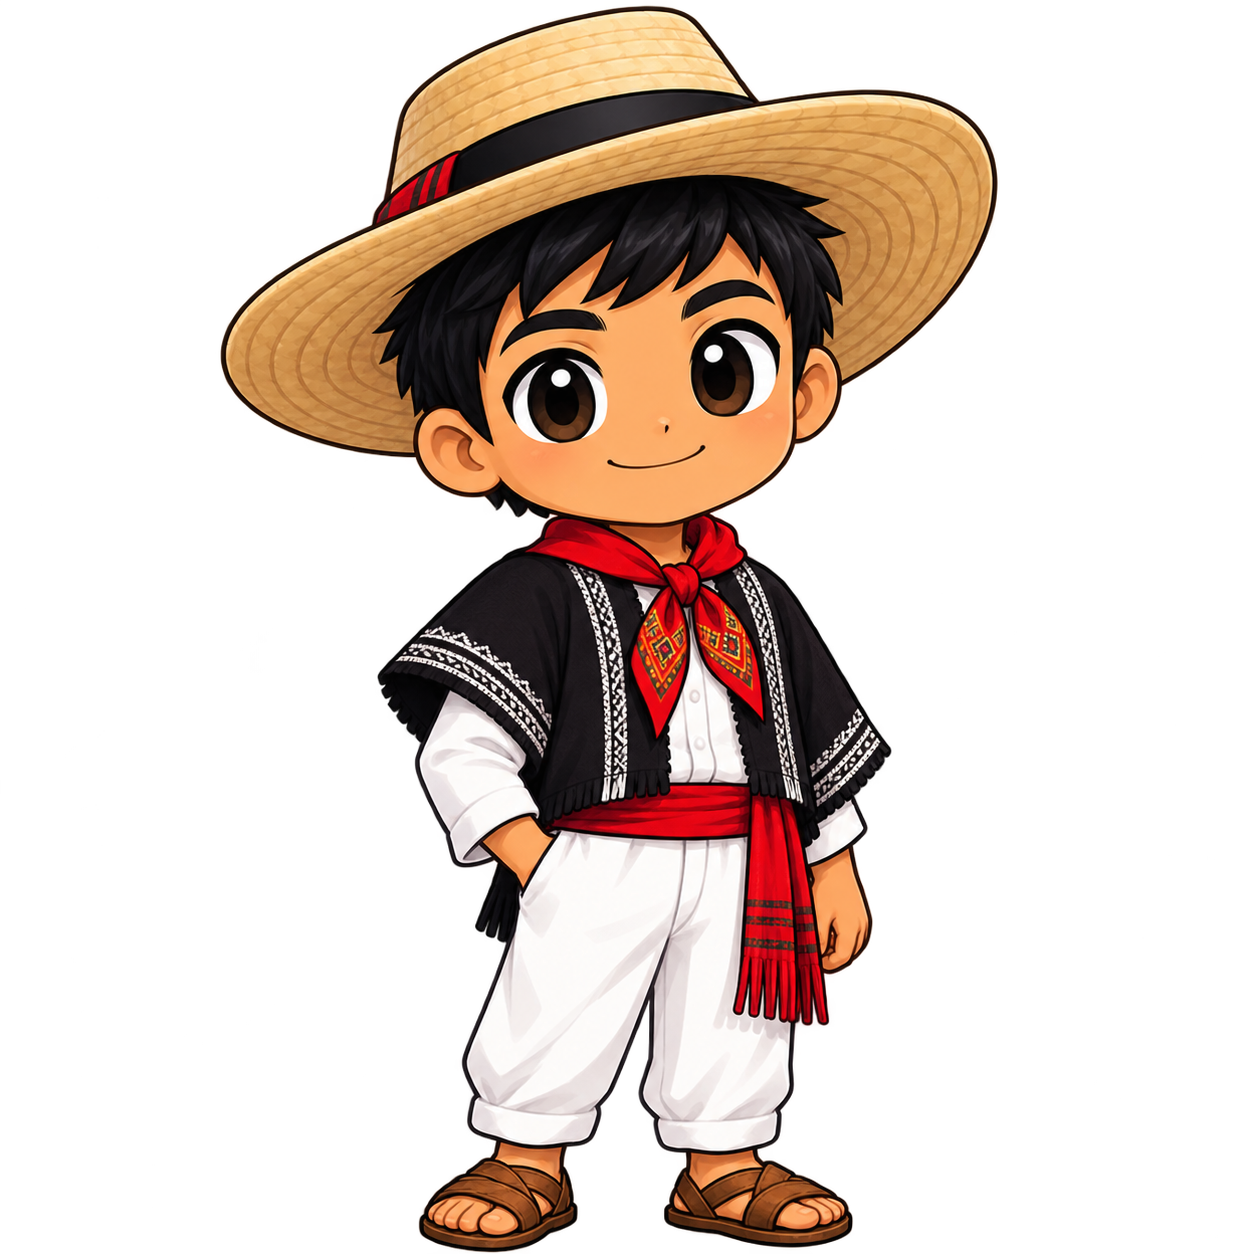
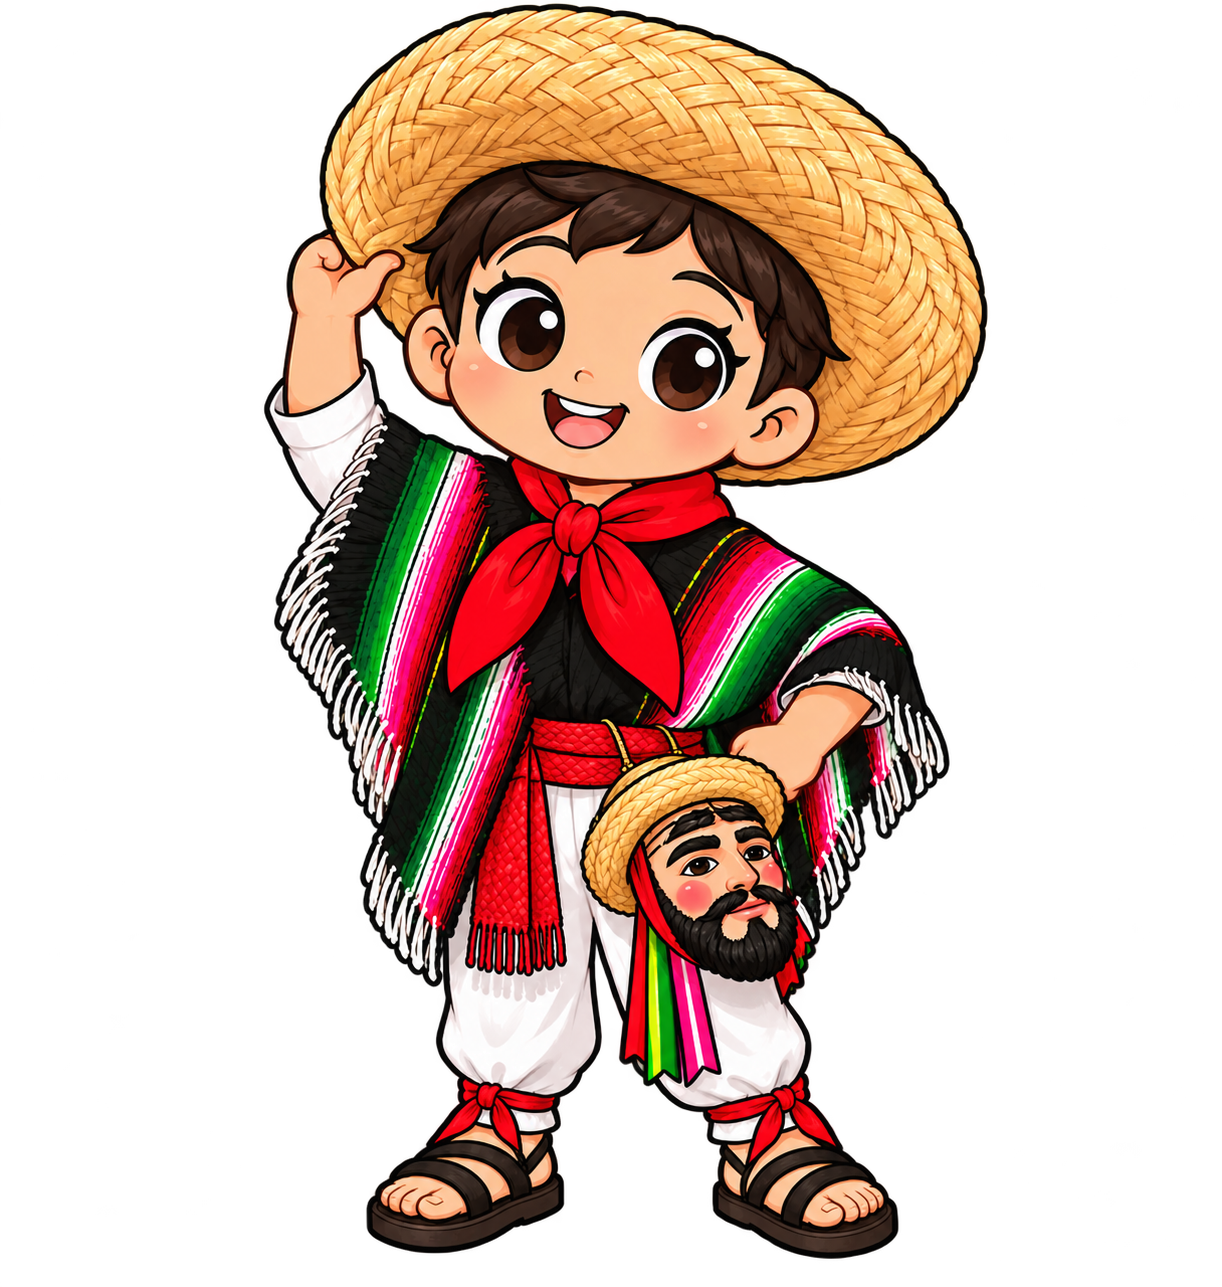
Fix mobile course and lab tour behavior

diff --git a/js/app.js b/js/app.js
@@ -324,7 +324,7 @@
     dropZone.addEventListener("dragover", function (event) { if (event.dataTransfer.types.indexOf("text/course-action") >= 0 || event.dataTransfer.types.indexOf("text/course-index") >= 0) { event.preventDefault(); dropZone.classList.add("is-over"); } });
     dropZone.addEventListener("dragleave", function () { dropZone.classList.remove("is-over"); });
     dropZone.addEventListener("drop", function (event) { event.preventDefault(); dropZone.classList.remove("is-over"); const draggedIndex = event.dataTransfer.getData("text/course-index"); if (draggedIndex !== "") { const from = Number(draggedIndex); const target = event.target.closest(".program-block"); let to = target ? Number(target.dataset.index) : actions.length; if (from !== to) { const moved = actions.splice(from, 1)[0]; if (from < to) to--; actions.splice(Math.max(0, to), 0, moved); renderProgram(); resetInactivity(); } return; } addAction(event.dataTransfer.getData("text/course-action")); });
-    executeButton.addEventListener("click", function () { if (running) return; resetInactivity(); const item = mission(); const actual = actions.map(function (a) { return a.type; }); const requirements = item.requirements || {}; const count = function (types) { return actual.filter(function (type) { return types.indexOf(type) >= 0; }).length; }; if (!actions.length) { document.querySelector("#lesson-challenge").textContent = "Agrega los bloques necesarios antes de ejecutar."; enableHint(); return; } const valid = item.creative || item.open ? actual.length >= (requirements.minLength || 3) && count(["forward", "backward"]) >= (requirements.minMoves || 0) && count(["right", "left"]) >= (requirements.turns || 0) && (!requirements.required || requirements.required.every(function (type) { return actual.indexOf(type) >= 0; })) : actual.join(",") === item.sequence.join(","); if (!valid) { invalidExecutions++; document.querySelector("#lesson-challenge").textContent = "Revisa el orden y la cantidad de bloques e inténtalo de nuevo."; if (invalidExecutions >= 2) enableHint(); return; } const expected = item.sequence || actual; hideSuccess(); running = true; canReset = false; controls(); let step = 0, stepStart = performance.now(), stepX = positionX, stepRotation = rotation; function finish() { running = false; canReset = true; controls(); completeMission(calculateStars()); showSuccess(); } function animate(now) { if (!running) return; const type = expected[step], entry = actions[step] || createAction(type); const stepDuration = entry.duration ? entry.duration * 1000 : 500; const progress = Math.min(1, (now - stepStart) / stepDuration); const limit = Math.max(120, (stage ? stage.clientWidth : 400) - 150); let targetX = stepX, targetRotation = stepRotation; if (type === "forward") targetX = Math.min(limit, stepX + 110); if (type === "backward") targetX = Math.max(0, stepX - 110); if (type === "right") targetRotation = stepRotation + (entry.degrees || 45); if (type === "left") targetRotation = stepRotation - (entry.degrees || 45); positionX = stepX + (targetX - stepX) * progress; rotation = stepRotation + (targetRotation - stepRotation) * progress; character.style.transform = "translateX(" + positionX + "px) rotate(" + rotation + "deg)"; if (progress < 1) { frame = requestAnimationFrame(animate); return; } positionX = targetX; rotation = targetRotation; step++; if (step >= expected.length) { finish(); return; } stepStart = now; stepX = positionX; stepRotation = rotation; frame = requestAnimationFrame(animate); } frame = requestAnimationFrame(animate); });
+    executeButton.addEventListener("click", function () { if (running) return; resetInactivity(); const item = mission(); const actual = actions.map(function (a) { return a.type; }); const requirements = item.requirements || {}; const count = function (types) { return actual.filter(function (type) { return types.indexOf(type) >= 0; }).length; }; if (!actions.length) { document.querySelector("#lesson-challenge").textContent = "Agrega los bloques necesarios antes de ejecutar."; enableHint(); return; } const valid = item.creative || item.open ? actual.length >= (requirements.minLength || 3) && count(["forward", "backward"]) >= (requirements.minMoves || 0) && count(["right", "left"]) >= (requirements.turns || 0) && (!requirements.required || requirements.required.every(function (type) { return actual.indexOf(type) >= 0; })) : actual.join(",") === item.sequence.join(","); if (!valid) { invalidExecutions++; document.querySelector("#lesson-challenge").textContent = "Revisa el orden y la cantidad de bloques e inténtalo de nuevo."; if (invalidExecutions >= 2) enableHint(); return; } const expected = item.sequence || actual; hideSuccess(); running = true; canReset = false; controls(); let step = 0, stepStart = performance.now(), stepX = positionX, stepRotation = rotation; function finish() { running = false; canReset = true; controls(); completeMission(calculateStars()); showSuccess(); } function animate(now) { if (!running) return; const type = expected[step], entry = actions[step] || createAction(type); const stepDuration = entry.duration ? entry.duration * 1000 : 500; const progress = Math.min(1, (now - stepStart) / stepDuration); const stageStyles = stage ? getComputedStyle(stage) : null; const horizontalPadding = stageStyles ? parseFloat(stageStyles.paddingLeft) + parseFloat(stageStyles.paddingRight) : 68; const characterWidth = character ? character.getBoundingClientRect().width : 112; const availableWidth = Math.max(0, (stage ? stage.clientWidth : 400) - horizontalPadding - characterWidth); const limit = Math.max(0, availableWidth - 8); let targetX = stepX, targetRotation = stepRotation; if (type === "forward") targetX = Math.min(limit, stepX + 110); if (type === "backward") targetX = Math.max(0, stepX - 110); if (type === "right") targetRotation = stepRotation + (entry.degrees || 45); if (type === "left") targetRotation = stepRotation - (entry.degrees || 45); positionX = stepX + (targetX - stepX) * progress; rotation = stepRotation + (targetRotation - stepRotation) * progress; character.style.transform = "translateX(" + positionX + "px) rotate(" + rotation + "deg)"; if (progress < 1) { frame = requestAnimationFrame(animate); return; } positionX = targetX; rotation = targetRotation; step++; if (step >= expected.length) { finish(); return; } stepStart = now; stepX = positionX; stepRotation = rotation; frame = requestAnimationFrame(animate); } frame = requestAnimationFrame(animate); });
     stopButton.addEventListener("click", function () { if (!running) return; running = false; if (frame) cancelAnimationFrame(frame); canReset = true; controls(); resetInactivity(); });
     restartButton.addEventListener("click", function () { if (running || !canReset) return; if (frame) cancelAnimationFrame(frame); positionX = 0; rotation = 0; character.style.transform = "translateX(0) rotate(0deg)"; hideSuccess(); running = false; canReset = false; controls(); resetInactivity(); });
     successReplay.addEventListener("click", function () { hideSuccess(); loadMission(current); });

diff --git a/js/laboratory-tour.js b/js/laboratory-tour.js
@@ -4,7 +4,9 @@
   const tour = document.querySelector("#laboratory-tour");
   if (!tour) return;
   if (document.body.classList.contains("laboratory-locked")) {
-    tour.remove();
+    document.addEventListener("laboratory-unlocked", function () {
+      window.location.reload();
+    }, { once: true });
     return;
   }
   const key = "robobloques-laboratory-tour-seen-v2";
@@ -19,7 +21,7 @@
     { title: "Selecciona un personaje para comenzar", text: "Toca un personaje en el escenario para programarlo. Verás el aviso de programación y sus acciones en la secuencia.", target: "#escenario" },
     { title: "Secuencia de acciones", text: "Este menú muestra las instrucciones del personaje seleccionado. Puedes abrirlo sin cerrar la biblioteca.", target: "#programa", open: "sequence" },
     { title: "Ordena las acciones", text: "Toca un bloque para seleccionarlo y luego toca otro bloque o una posición para moverlo. En mobile los bloques no se arrastran.", target: "#programa", open: "sequence" },
-    { title: "Controles de ejecución", text: "Toca el control para desplegar Ejecutar, Detener y Reiniciar. Si no hay acciones, el laboratorio mostrará: “Agrega acciones antes de ejecutar.”", target: "#mobile-execution-toggle", open: "execution" }
+    { title: "Controles de ejecución", text: "Toca el control para desplegar Ejecutar, Detener y Reiniciar. Si no hay acciones, el laboratorio mostrará: “Agrega acciones antes de ejecutar.”", target: "#workspace-execution-menu", open: "execution" }
   ];
   let index = 0;
   let renderId = 0;
@@ -34,7 +36,12 @@
     const root = document.documentElement;
     if (name === "blocks") root.classList.toggle("mobile-blocks-open", open);
     if (name === "sequence") root.classList.toggle("mobile-program-open", open);
-    if (name === "execution") root.classList.toggle("mobile-execution-open", open);
+    if (name === "execution") {
+      root.classList.toggle("mobile-execution-open", open);
+      if (open) {
+        root.classList.remove("mobile-blocks-open", "mobile-program-open");
+      }
+    }
     const button = name === "blocks" ? document.querySelector("#mobile-block-menu-toggle")
       : name === "sequence" ? document.querySelector("#mobile-sequence-menu-toggle")
         : document.querySelector("#mobile-execution-toggle");
@@ -51,7 +58,13 @@
     }
     const bounds = target ? target.getBoundingClientRect() : null;
     const padding = 7;
-    const bottom = window.innerHeight - (window.innerWidth <= 700 ? 202 : 18);
+    const smallMobile = window.innerWidth <= 360;
+    const guideHeight = smallMobile ? 210 : 250;
+    const executionTarget = currentStepTarget === "#mobile-execution-toggle" ||
+      currentStepTarget === "#workspace-execution-menu";
+    const bottom = window.innerWidth <= 700
+      ? (executionTarget ? window.innerHeight - 8 : window.innerHeight - guideHeight - 10)
+      : window.innerHeight - 18;
     const hole = bounds ? {
       left: Math.max(8, bounds.left - padding),
       top: Math.max(8, bounds.top - padding),
@@ -71,10 +84,17 @@
     panels.forEach(function (panel, panelIndex) { Object.assign(panel.style, styles[panelIndex]); });
     const mobile = window.innerWidth <= 700 || (window.matchMedia("(orientation: landscape) and (max-height: 700px)").matches);
     const landscape = window.matchMedia("(orientation: landscape) and (max-height: 700px)").matches;
-    const executionTarget = currentStepTarget === "#mobile-execution-toggle";
-    guide.classList.toggle("tour-guide-top", landscape || executionTarget);
-    guide.classList.toggle("tour-guide-bottom", !landscape && !executionTarget);
-    guide.style.left = mobile ? (landscape ? "12px" : "14px") : "50%";
+    const guideExecutionTarget = currentStepTarget === "#mobile-execution-toggle" ||
+      currentStepTarget === "#workspace-execution-menu";
+    guide.classList.toggle("tour-guide-top", landscape || guideExecutionTarget);
+    guide.classList.toggle("tour-guide-bottom", !landscape && !guideExecutionTarget);
+    const mobileEdge = window.innerWidth <= 360 ? 10 : 12;
+    guide.style.left = mobile ? (landscape ? "12px" : mobileEdge + "px") : "50%";
+    if (mobile) {
+      guide.style.setProperty("left", mobileEdge + "px", "important");
+      guide.style.setProperty("right", mobileEdge + "px", "important");
+      guide.style.setProperty("width", "calc(100% - " + (mobileEdge * 2) + "px)", "important");
+    }
     guide.style.setProperty("top", mobile ? (landscape || executionTarget ? "10px" : "auto") : "50%", "important");
     guide.style.right = mobile ? (landscape ? "auto" : "14px") : "auto";
     guide.style.setProperty("bottom", mobile ? (landscape || executionTarget ? "auto" : "10px") : "auto", "important");

diff --git a/js/mobile-tour-layout.js b/js/mobile-tour-layout.js
@@ -41,13 +41,14 @@
     }
 
     if (laboratoryGuide) {
+      const topPosition = laboratoryGuide.classList.contains("tour-guide-top");
       laboratoryGuide.style.setProperty("left", edge + "px", "important");
       laboratoryGuide.style.setProperty("right", edge + "px", "important");
       laboratoryGuide.style.setProperty("width", "calc(100% - " + (edge * 2) + "px)", "important");
       laboratoryGuide.style.setProperty("max-width", "430px", "important");
       laboratoryGuide.style.setProperty("height", small ? "210px" : "250px", "important");
-      laboratoryGuide.style.setProperty("top", "auto", "important");
-      laboratoryGuide.style.setProperty("bottom", "10px", "important");
+      laboratoryGuide.style.setProperty("top", topPosition ? "10px" : "auto", "important");
+      laboratoryGuide.style.setProperty("bottom", topPosition ? "auto" : "10px", "important");
       laboratoryGuide.style.setProperty("transform", "none", "important");
     }
 

diff --git a/css/styles.css b/css/styles.css
@@ -3977,7 +3977,13 @@ html.mobile-execution-open .execution-chevron {
 
   .site-redesign .lesson-stage,
   .lesson-stage {
-    min-height: 210px;
+    min-height: 300px;
+    height: 300px;
+    width: 100%;
+    max-width: 100%;
+    margin-inline: 0;
+    padding: 16px 12px;
+    box-sizing: border-box;
   }
 }
 
@@ -3990,7 +3996,8 @@ html.mobile-execution-open .execution-chevron {
 
   .site-redesign .lesson-stage,
   .lesson-stage {
-    min-height: 190px;
+    min-height: 280px;
+    height: 280px;
   }
 }
 

diff --git a/sandbox.html b/sandbox.html
@@ -112,7 +112,7 @@
   </section>
   <script src="js/app.js"></script>
   <script src="js/laboratory-lock.js"></script>
-  <script src="js/laboratory-tour.js?v=20261117-mobile"></script>
-  <script src="js/mobile-tour-layout.js?v=20261117-mobile"></script>
+  <script src="js/laboratory-tour.js?v=20261117-lab-final"></script>
+  <script src="js/mobile-tour-layout.js?v=20261117-lab-final"></script>
 </body>
 </html>

diff --git a/curso.html b/curso.html
@@ -5,7 +5,7 @@
   <meta name="viewport" content="width=device-width, initial-scale=1.0">
   <meta name="theme-color" content="#287C72">
   <title>RoboBloques | Curso guiado</title>
-  <link rel="stylesheet" href="css/styles.css?v=20261117-course">
+  <link rel="stylesheet" href="css/styles.css?v=20261117-stage">
 </head>
 <body class="site-redesign">
   <div class="app-shell">

diff --git a/js/laboratory-lock.js b/js/laboratory-lock.js
@@ -109,6 +109,7 @@
     window.removeEventListener("wheel", preventScroll);
     window.removeEventListener("touchmove", preventScroll);
     document.removeEventListener("keydown", preventKeys);
+    document.dispatchEvent(new CustomEvent("laboratory-unlocked"));
     lock.remove();
   }
 
